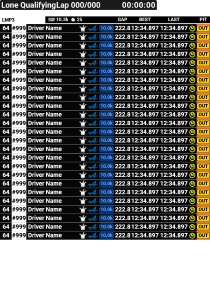
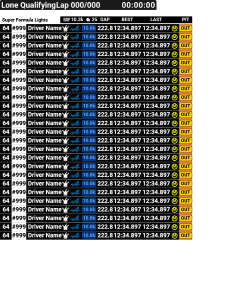
Added option to change width of Multi-Class Standings overlay

diff --git a/Plugin/SettingsControl.xaml b/Plugin/SettingsControl.xaml
@@ -110,6 +110,11 @@
                             Show header
                         </styles:SHToggleCheckbox>
 
+                        <StackPanel Orientation="Horizontal">
+                            <ui:TitledSlider Width="400" Title="Header Width (%)*" Maximum="100" Minimum="0" Value="{Binding Plugin.Modules[StandingsModule].Settings.HeaderWidth, Mode=TwoWay, UpdateSourceTrigger=PropertyChanged}" />
+                            <ui:TitledSlider Width="400" Title="Header Opacity (%)" Maximum="100" Minimum="0" Value="{Binding Plugin.Modules[StandingsModule].Settings.HeaderOpacity, Mode=TwoWay, UpdateSourceTrigger=PropertyChanged}" />
+                        </StackPanel>
+
                         <styles:SHToggleCheckbox 
                             ToolTip="Show the car class header with class information" 
                             HorizontalAlignment="Left" Margin="0,0,4,8"
@@ -121,7 +126,7 @@
                             ToolTip="Highlight the player row with a bright background color" 
                             HorizontalAlignment="Left" Margin="0,0,4,8"
                             IsChecked="{Binding Plugin.Modules[StandingsModule].Settings.HighlightPlayerRow, Mode=TwoWay, UpdateSourceTrigger=PropertyChanged}">
-                            Highlight player row
+                            Highlight player row*
                         </styles:SHToggleCheckbox>
 
                         <styles:SHToggleCheckbox 
@@ -211,13 +216,13 @@
                             <ui:TitledSlider MinWidth="400" Title="Max Row Count (Other Classes)*" Maximum="5" Minimum="0" Value="{Binding Plugin.Modules[StandingsModule].Settings.MaxRowsOtherClasses, Mode=TwoWay, UpdateSourceTrigger=PropertyChanged}"
                                             ToolTip="Maximum number of visible rows in the Standings leaderboard for other classes"/>
 
-                            <ui:TitledSlider MinWidth="400" Title="Alternate row background color (%)" Maximum="100" Minimum="0" Value="{Binding Plugin.Modules[StandingsModule].Settings.AlternateRowBackgroundColor, Mode=TwoWay, UpdateSourceTrigger=PropertyChanged}"
+                            <ui:TitledSlider MinWidth="400" Title="Alternate row background color (%)*" Maximum="100" Minimum="0" Value="{Binding Plugin.Modules[StandingsModule].Settings.AlternateRowBackgroundColor, Mode=TwoWay, UpdateSourceTrigger=PropertyChanged}"
                                             ToolTip="Use a different background color to make alternate rows easier to read. 100% for maximum contrast, 0% to disable."/>
                         </StackPanel>
 
                         <StackPanel Orientation="Horizontal">
+                            <ui:TitledSlider Width="400" Title="Width (%)*" Maximum="100" Minimum="0" Value="{Binding Plugin.Modules[StandingsModule].Settings.Width, Mode=TwoWay, UpdateSourceTrigger=PropertyChanged}" />
                             <ui:TitledSlider Width="400" Title="Background Opacity (%)" Maximum="100" Minimum="0" Value="{Binding Plugin.Modules[StandingsModule].Settings.BackgroundOpacity, Mode=TwoWay, UpdateSourceTrigger=PropertyChanged}" />
-                            <ui:TitledSlider Width="400" Title="Header Opacity (%)" Maximum="100" Minimum="0" Value="{Binding Plugin.Modules[StandingsModule].Settings.HeaderOpacity, Mode=TwoWay, UpdateSourceTrigger=PropertyChanged}" />
                         </StackPanel>
 
                         <Label Content="* Note: Some options marked with a star (*) only apply to the Multi-Class Standings overlay" Margin="0,0,0,0"/>

diff --git a/Plugin/Modules/Standings.cs b/Plugin/Modules/Standings.cs
@@ -30,6 +30,8 @@ namespace benofficial2.Plugin
 
     public class StandingsSettings : ModuleSettings
     {
+        public int HeaderWidth { get; set; } = 10;
+        public int Width { get; set; } = 34;
         public bool HideInReplay { get; set; } = true;
         public bool HeaderVisible { get; set; } = true;
         public bool CarClassHeaderVisible { get; set; } = true;
@@ -133,6 +135,8 @@ namespace benofficial2.Plugin
 
             Settings = plugin.ReadCommonSettings<StandingsSettings>("StandingsSettings", () => new StandingsSettings());
             plugin.AttachDelegate(name: $"Standings.HeaderVisible", valueProvider: () => Settings.HeaderVisible);
+            plugin.AttachDelegate(name: $"Standings.HeaderWidth", valueProvider: () => Settings.HeaderWidth);
+            plugin.AttachDelegate(name: $"Standings.Width", valueProvider: () => Settings.Width);
             plugin.AttachDelegate(name: $"Standings.CarClassHeaderVisible", valueProvider: () => Settings.CarClassHeaderVisible);
             plugin.AttachDelegate(name: $"Standings.VisibleClassCount", valueProvider: () => VisibleClassCount);
             plugin.AttachDelegate(name: $"Standings.TotalDriverCount", valueProvider: () => TotalDriverCount);
